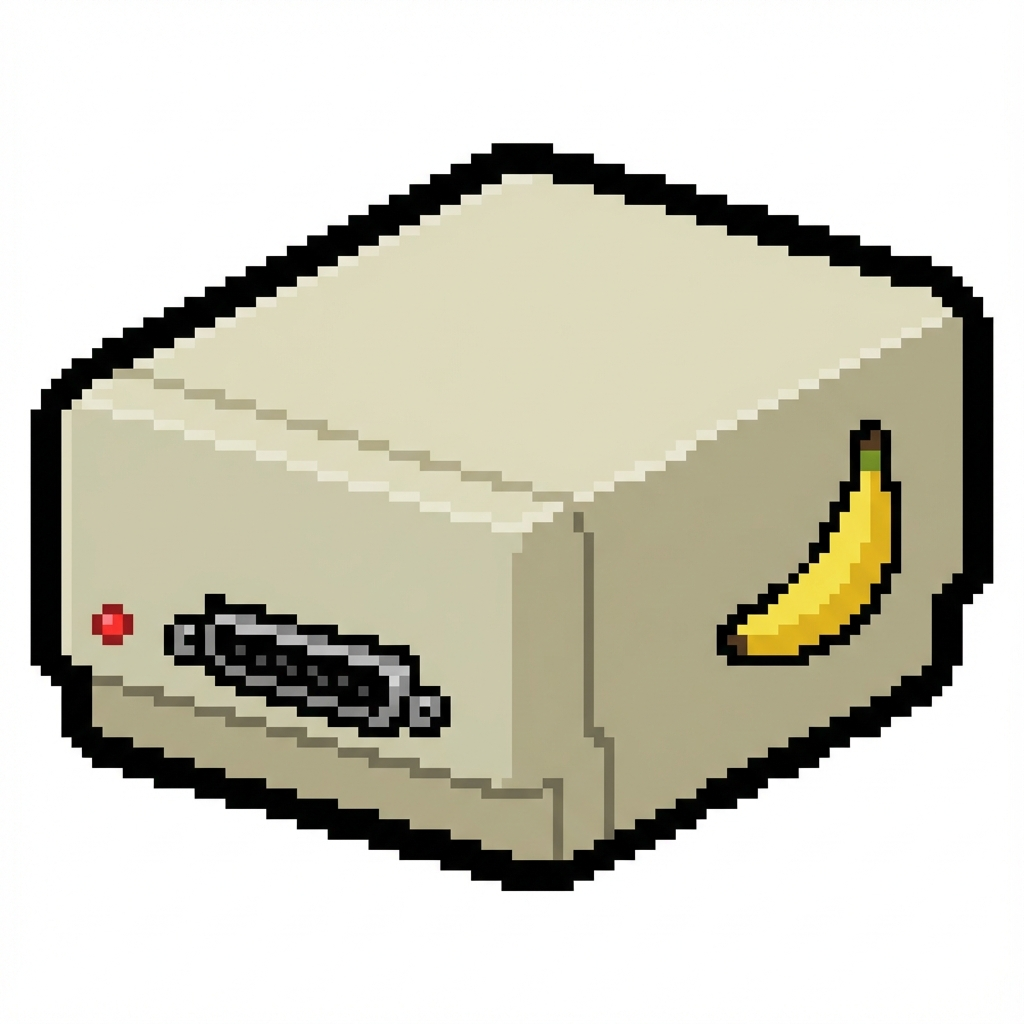
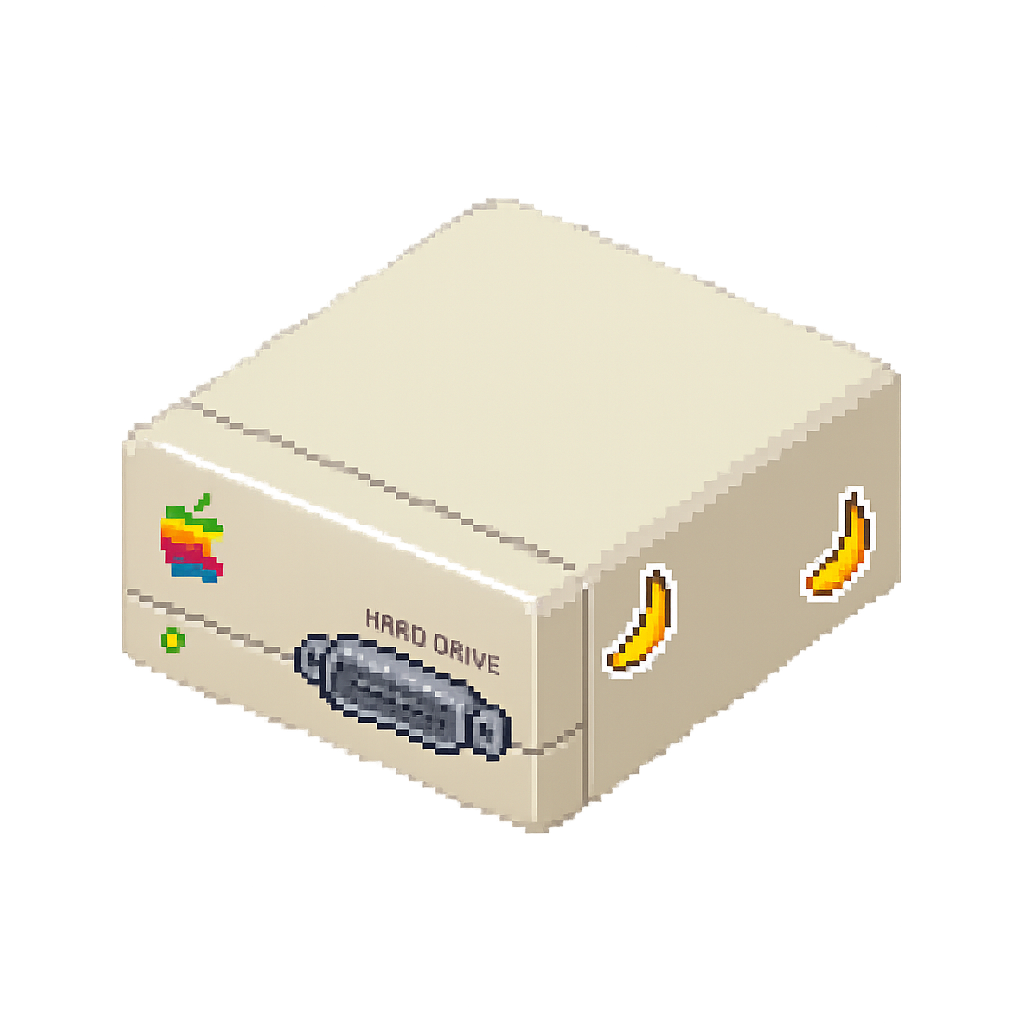
docs: add guidelines for project structure, development commands, coding style, testing, and commit practices

diff --git a/src/components/os/Desktop.test.tsx b/src/components/os/Desktop.test.tsx
@@ -5,7 +5,7 @@ import Desktop from './Desktop';
 
 // Mock the imported images and components
 vi.mock('../../assets/pattern_bg.png', () => ({ default: 'pattern-bg.png' }));
-vi.mock('../../assets/hd_icon_transparent.png', () => ({ default: 'hd-icon.png' }));
+vi.mock('../../assets/hd_icon.png', () => ({ default: 'hd-icon.png' }));
 vi.mock('../../assets/trash_icon_transparent.png', () => ({ default: 'trash-icon.png' }));
 vi.mock('../../assets/folder_icon.png', () => ({ default: 'folder-icon.png' }));
 vi.mock('../../assets/calculator.png', () => ({ default: 'calculator-icon.png' }));

diff --git a/src/components/os/Desktop.tsx b/src/components/os/Desktop.tsx
@@ -7,7 +7,7 @@ import ContextMenu from './ContextMenu';
 import type { ContextMenuItem } from './ContextMenu';
 import InfoDialog from './InfoDialog';
 import patternBg from '../../assets/pattern_bg.png';
-import hdIcon from '../../assets/hd_icon_transparent.png';
+import hdIcon from '../../assets/hd_icon.png';
 import trashIcon from '../../assets/trash_icon_transparent.png';
 import folderIcon from '../../assets/folder_icon.png';
 import calcIcon from '../../assets/calculator.png';

diff --git a/AGENTS.md b/AGENTS.md
@@ -1,0 +1,33 @@
+# Repository Guidelines
+
+This project simulates a late-90s Mac OS desktop using React 19, TypeScript, Vite, and SCSS modules. Use the conventions below to keep contributions consistent and shippable.
+
+## Project Structure & Module Organization
+- Entry points live in `src/main.tsx` and `src/App.tsx`; desktop shell components sit in `src/components/os` (Desktop, MenuBar, Window, dialogs), and app modules in `src/components/apps` (Finder, Calculator, TicTacToe, About, TextEditor).
+- Shared styles are in `src/styles` with `global.scss` imported once in `App`; component-scoped styles use `*.module.scss`. Images/icons live in `src/assets`. Static public assets go in `public`.
+- Tests are colocated beside components as `*.test.tsx`; test utilities load from `src/test/setup.ts`.
+- Build artifacts land in `dist`. Avoid editing generated files directly.
+
+## Build, Test, and Development Commands
+- `pnpm install` — install dependencies (prefer pnpm to match the lockfile).
+- `pnpm dev` — start Vite with HMR for local development.
+- `pnpm build` — type-check via `tsc -b` then produce a production build.
+- `pnpm preview` — serve the built output for smoke-testing.
+- `pnpm lint` — run ESLint across TS/TSX sources.
+- `pnpm test` — execute Vitest + Testing Library in jsdom; append a path to target a single suite (e.g., `pnpm test src/components/apps/Calculator.test.tsx`).
+
+## Coding Style & Naming Conventions
+- Stick to TypeScript functional components, 2-space indentation, and the existing no-semicolon style. Keep props typed explicitly and prefer React hooks.
+- Name components and files in PascalCase; hooks in camelCase; SCSS modules as `Component.module.scss`.
+- Keep UI text and layout authentic to the Mac OS 9 aesthetic; reuse existing styles before adding new globals. Place reusable visuals in `src/assets` and import via Vite paths.
+- Ensure code is ESLint-clean before submitting; no formatter is configured, so match surrounding style.
+
+## Testing Guidelines
+- Vitest with `@testing-library/react` and `@testing-library/jest-dom` is configured in `vitest.config.ts`; jsdom is the default environment.
+- Mirror the existing pattern of colocated `*.test.tsx` files. Focus on user-visible behavior: menu interactions, window state, keyboard/mouse flows, and calculator/game logic.
+- Use accessible queries (`getByRole`, `getByText`) and avoid brittle snapshot assertions. Prefer small, focused tests over broad integration where possible.
+
+## Commit & Pull Request Guidelines
+- Follow the existing Conventional Commit pattern seen in history (`feat: ...`, `fix: ...`, `chore: ...`). Use present tense and keep messages concise.
+- For PRs, include: a one-paragraph summary, linked issues, screenshots or recordings for UI changes, and a brief checklist of commands run (`pnpm lint`, `pnpm test`, `pnpm build` if relevant).
+- Avoid large mixed changes; keep refactors and features separate. When adding assets, note their source and license in the PR description if non-original.

diff --git a/docs/BUGS.md b/docs/BUGS.md
@@ -1,0 +1,25 @@
+## Known Issues and Risks
+
+### Automated Checks
+- `pnpm test` passes (Vitest), but Finder emits a console warning when an icon src is empty.
+- `pnpm lint` currently fails with 13 errors (`src/components/apps/TextEditor.tsx`, `src/components/os/Desktop.tsx`, `src/components/os/DesktopIcon.tsx`, `src/components/apps/TicTacToe.tsx`, and several tests), blocking CI-quality validation.
+
+### Desktop Text Editor Status Counters
+- Location: `src/components/apps/TextEditor.tsx` around the `getStats` call.
+- Problem: Status bar line/character counts read `editorRef.current` during render and never update after the first keystroke because `onInput` only flips `isDirty` once. A user can type and see stale counts (often stuck at 0/0) unless another state change happens.
+- Fix: Track content in state (or use a `useEffect` tied to `onInput`) and derive stats from state; avoid reading refs during render.
+
+### Finder Icons Without Source
+- Location: `src/components/apps/Finder.tsx` (`<img src={item.icon}>` in icon/list views).
+- Problem: Items without an icon render `<img src="">`, triggering browser re-requests of the current page and the Vitest stderr warning. Real users with missing/undefined icons will see network noise and broken image glyphs.
+- Fix: Skip the `<img>` when the icon is falsy or provide a fallback asset for empty/missing icons.
+
+### New Folder Creation Skips Undo History
+- Location: `src/components/os/Desktop.tsx`, `openWindow('new_folder', ...)` path and MenuBar File → New Folder.
+- Problem: New folders made through the File menu are created via `openWindow` without recording history, so Edit → Undo has no effect. Context-menu New Folder does record history, creating inconsistent behavior.
+- Fix: Route both folder-creation paths through a shared helper that logs to `history` (and consider moving `Date.now()` usage out of render to satisfy lint purity rules).
+
+### Type-Safety and Lint Debt
+- Locations: `TicTacToe.tsx` (any-typed board and helper), `DesktopIcon.tsx` (unused expression `onDoubleClick && onDoubleClick()`), `Desktop.tsx` (any-typed history items, impure `Date.now()` in render), plus multiple test files typed as `any`.
+- Impact: `pnpm lint` fails, so contributors cannot rely on lint to gate changes; the impure/time-based IDs also risk flaky rendering if components re-render mid-event.
+- Fix: Replace `any` with explicit types, switch to optional chaining for callbacks, and move time-based ID generation into event handlers or helpers.
